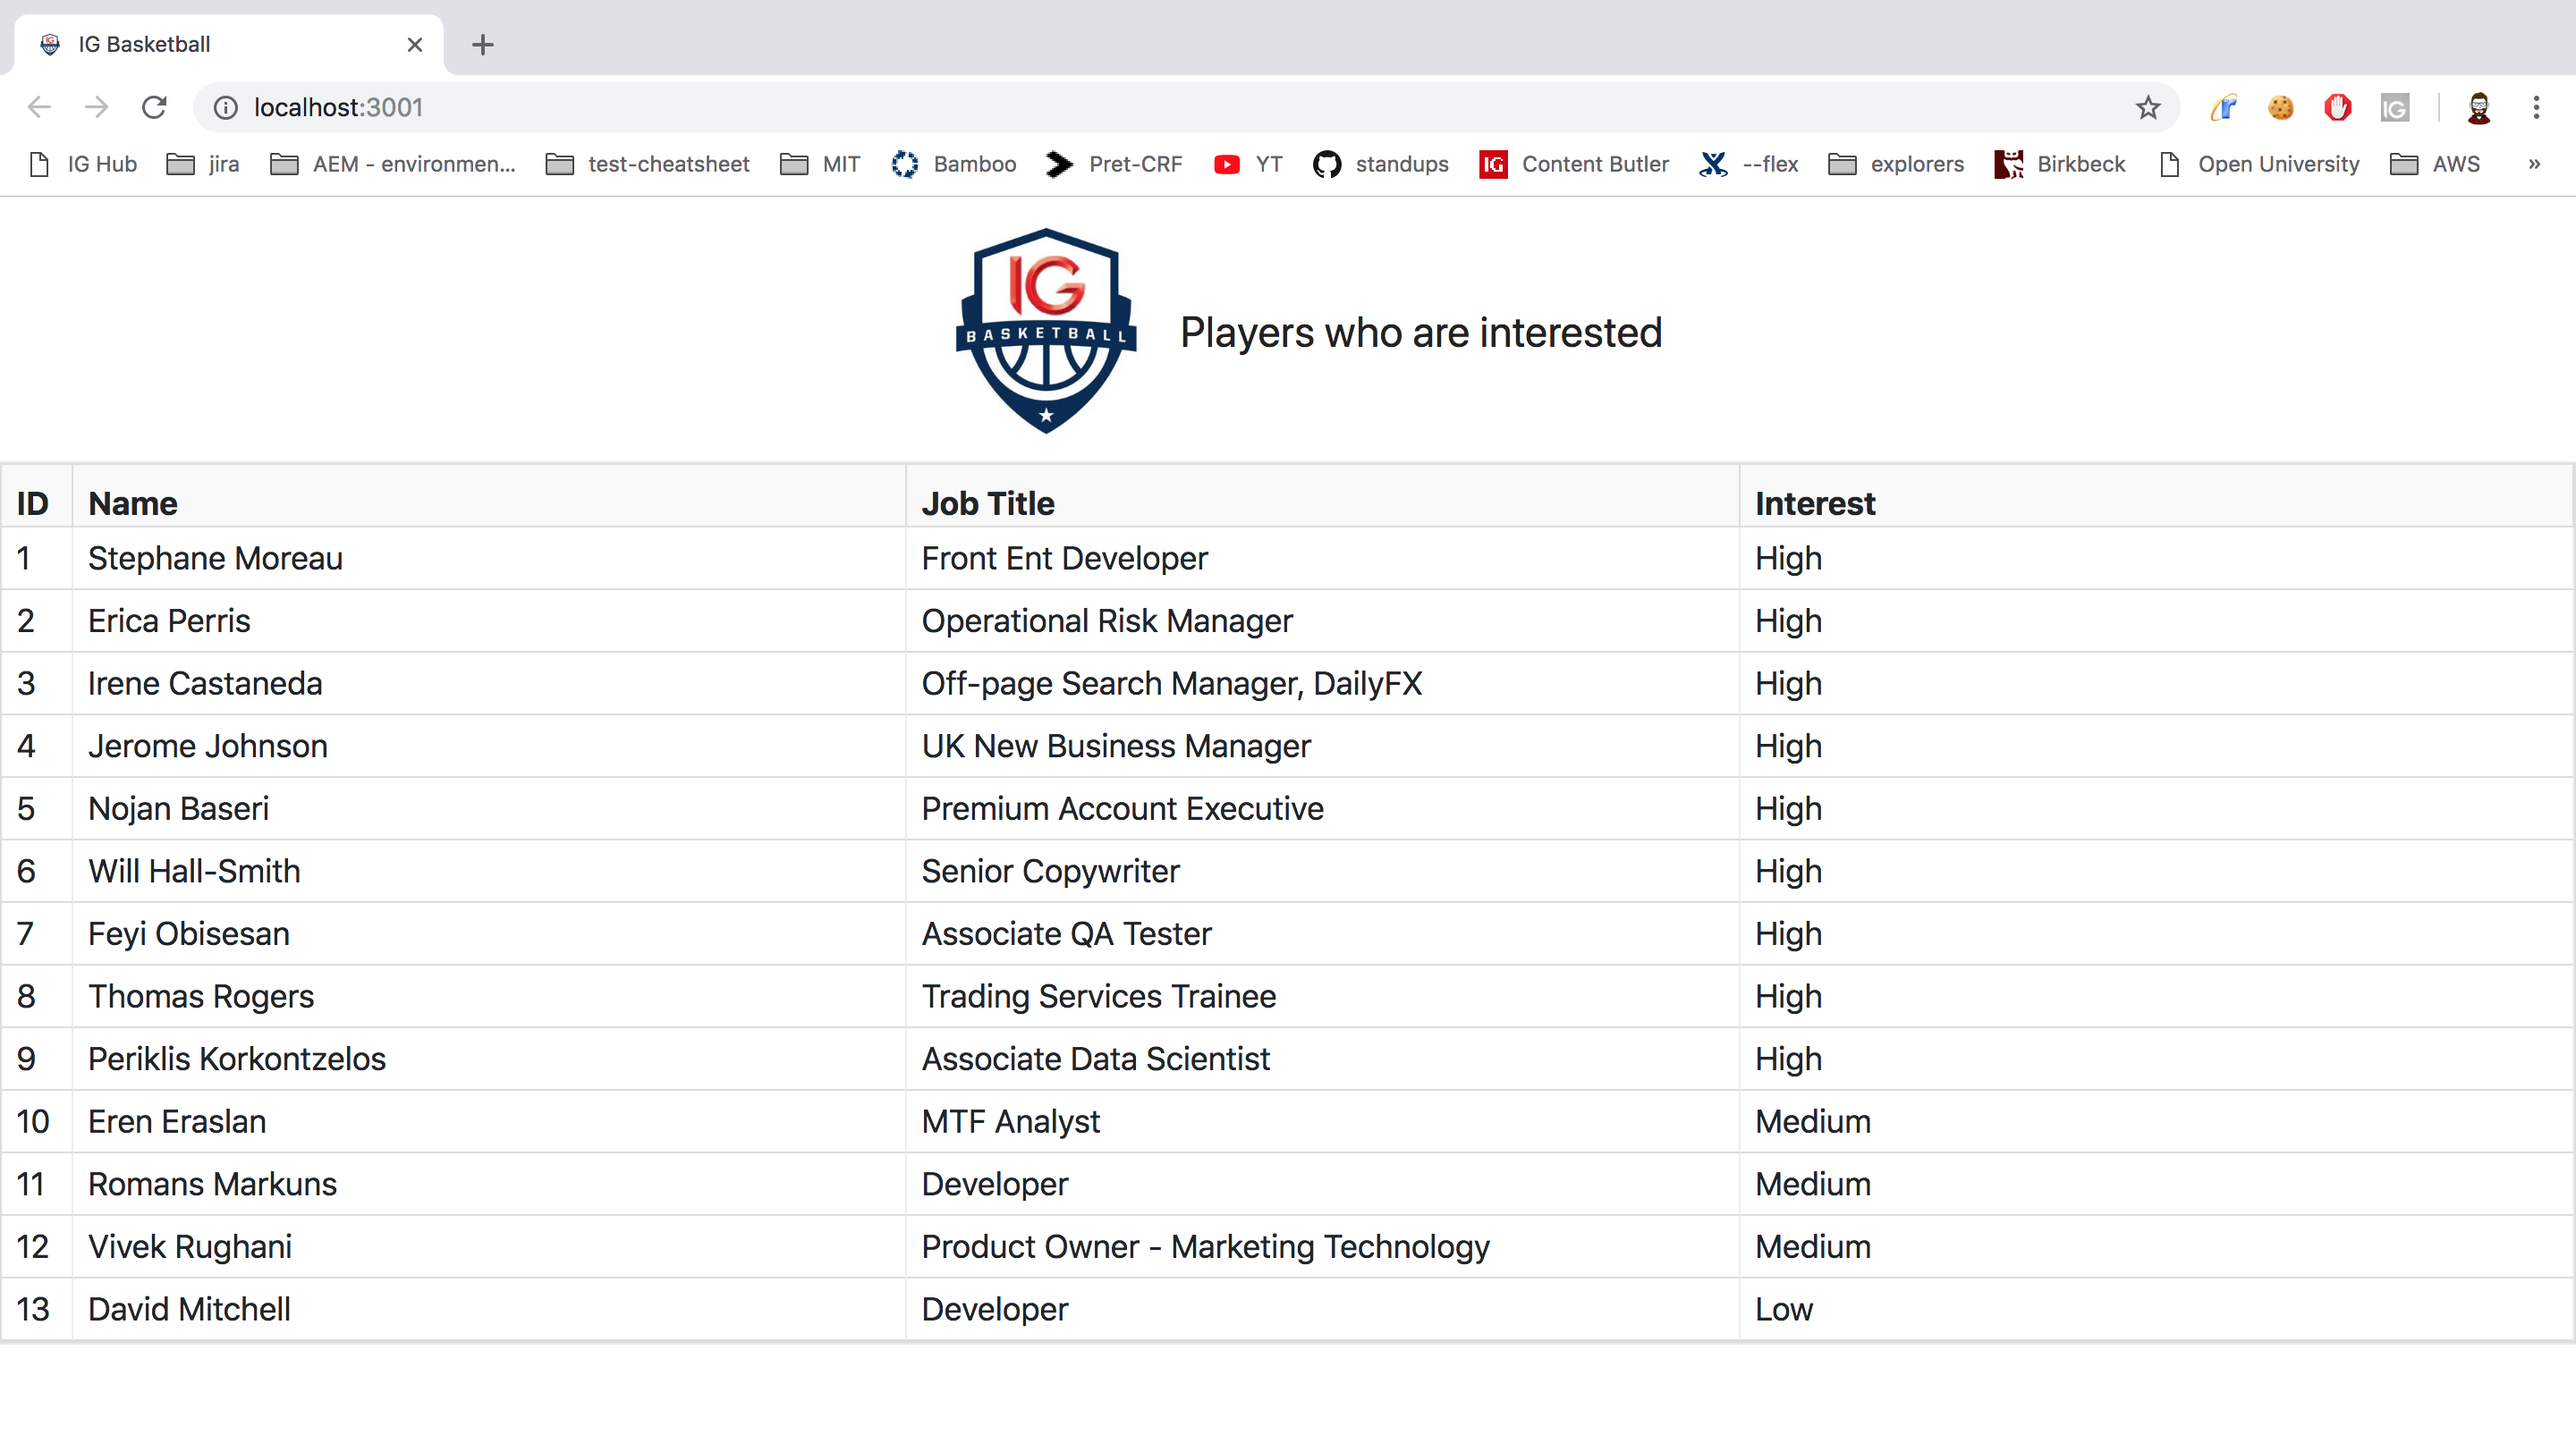
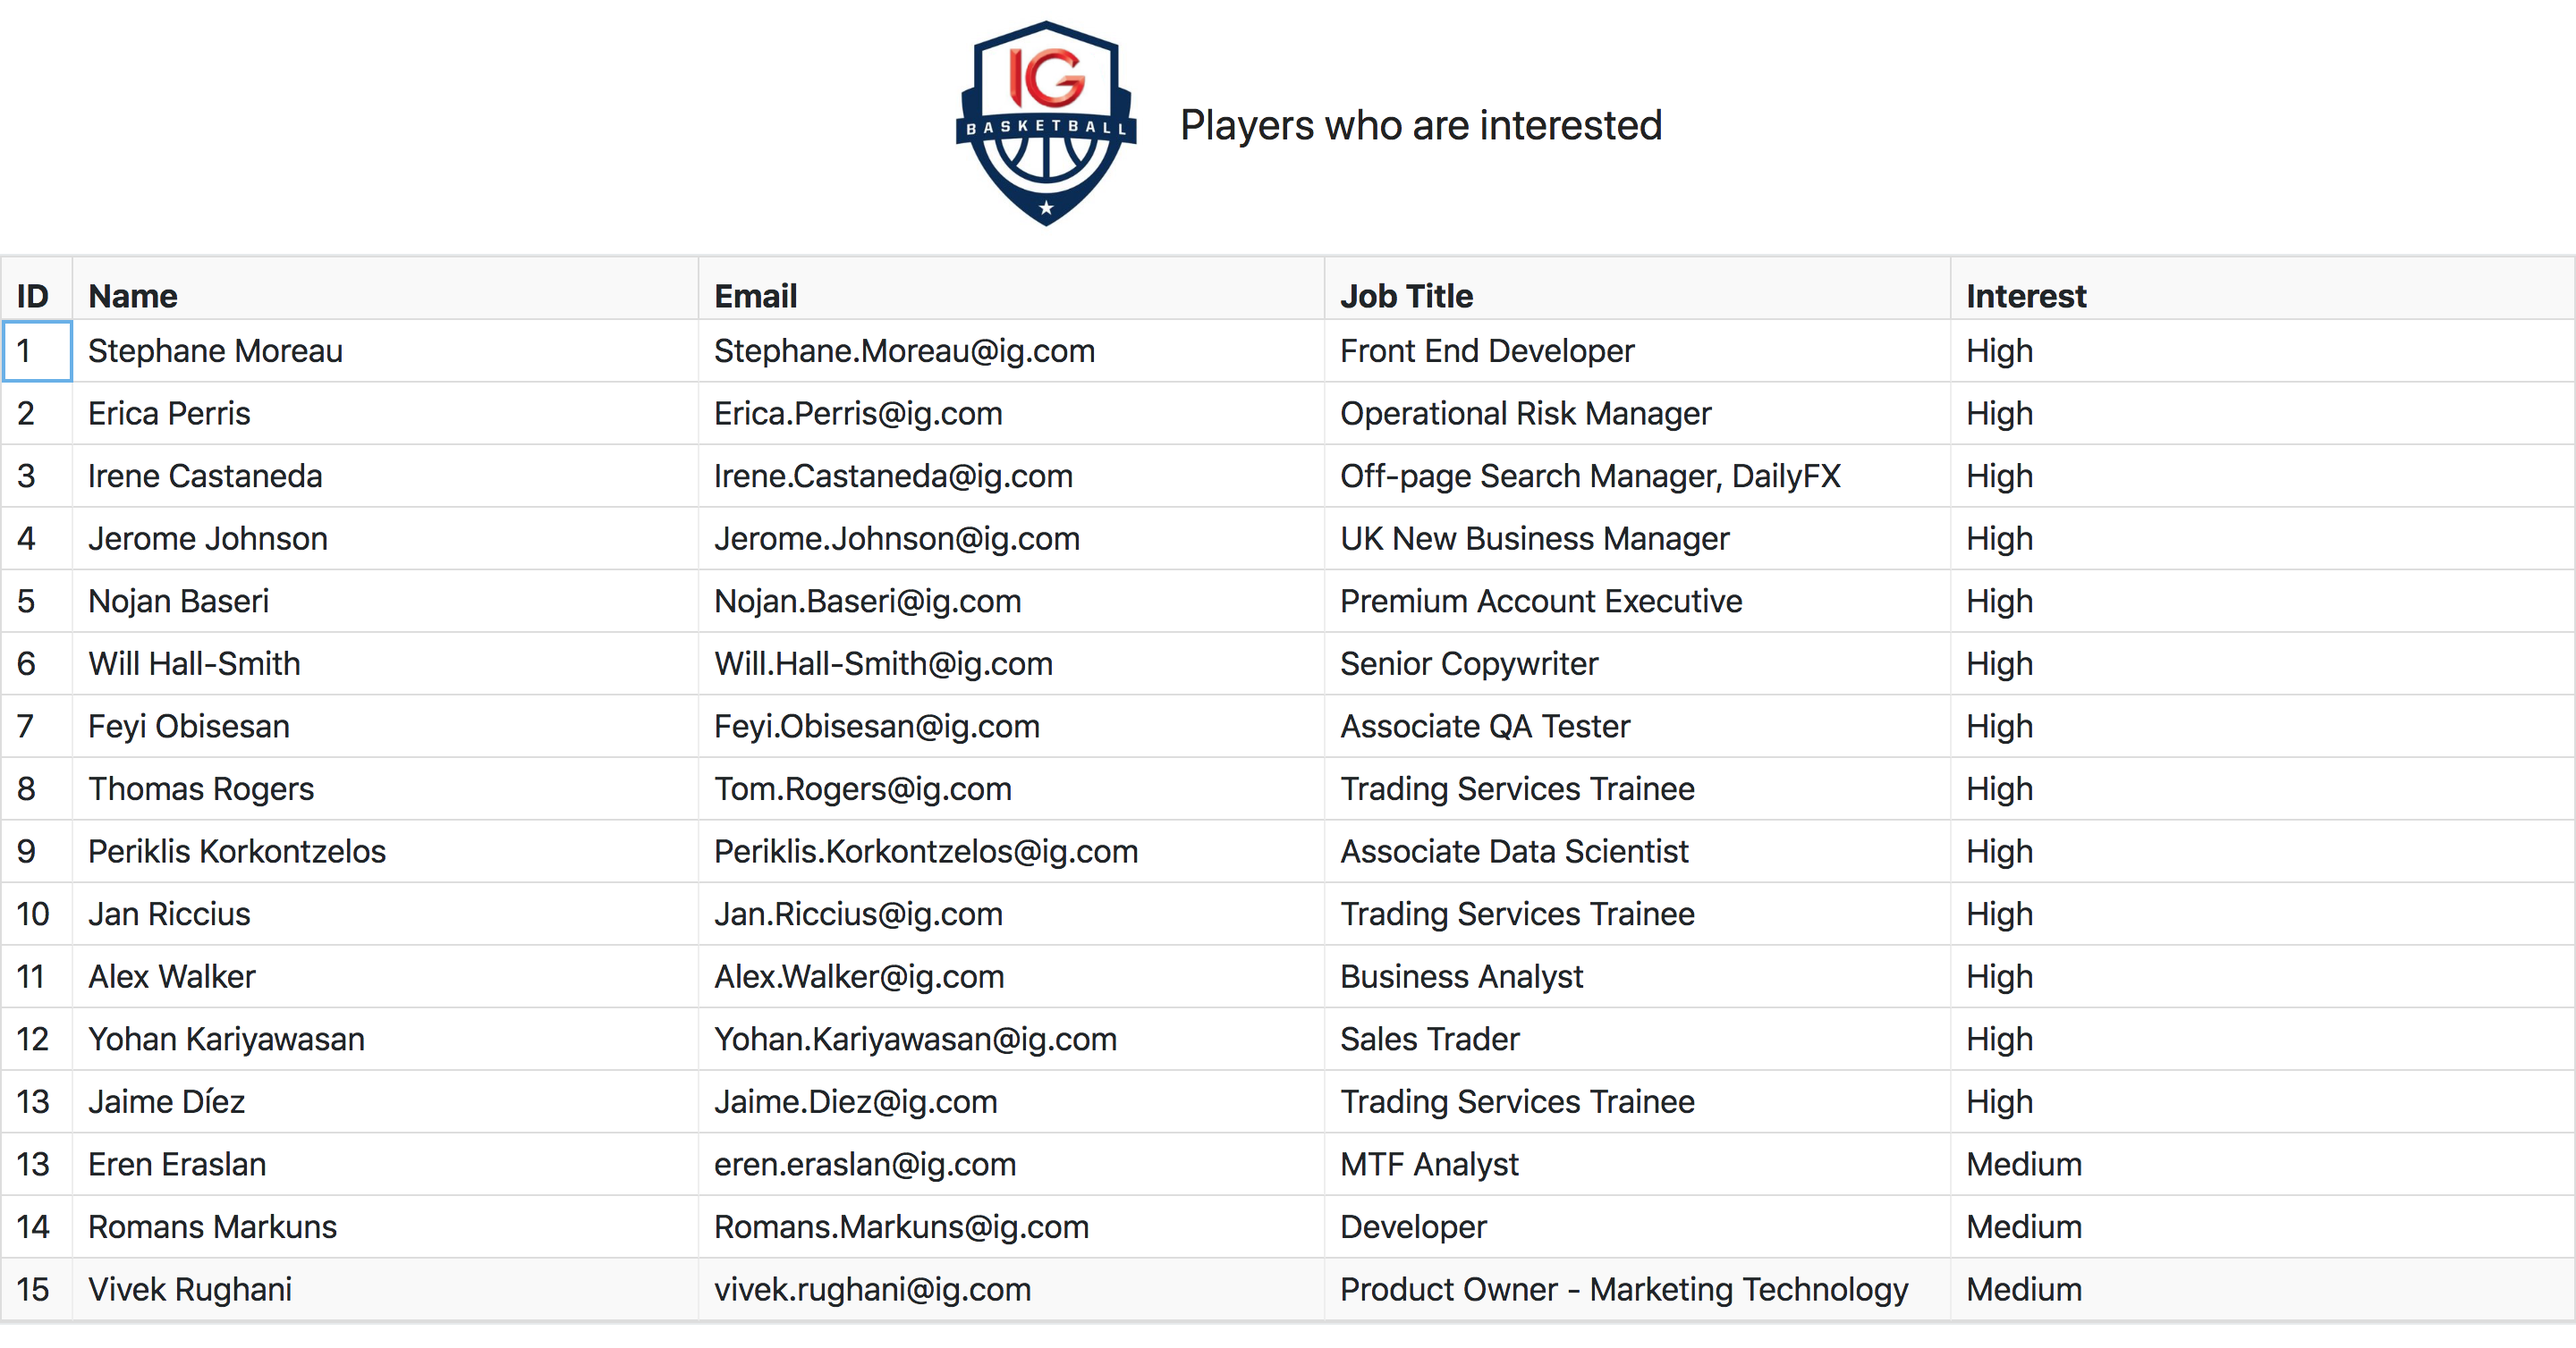
Fix typo for my JD and added another field on table

diff --git a/src/players.js b/src/players.js
@@ -1,20 +1,20 @@
 const players = [
-    {id: 1, name: 'Stephane Moreau', email: 'Stephane.Moreau@ig.com', title: 'Front Ent Developer', interest: 'High'},
-    {id: 2, name: 'Erica Perris', email: 'Erica.Perris@ig.com', title: 'Operational Risk Manager', interest: 'High'},
-    {id: 3, name: 'Irene Castaneda', email: 'Irene.Castaneda@ig.com', title: 'Off-page Search Manager, DailyFX', interest: 'High'},
-    {id: 4, name: 'Jerome Johnson', email: 'Jerome.Johnson@ig.com', title: 'UK New Business Manager', interest: 'High'},
-    {id: 5, name: 'Nojan Baseri', email: 'Nojan.Baseri@ig.com', title: 'Premium Account Executive', interest: 'High'},
-    {id: 6, name: 'Will Hall-Smith', email: 'Will.Hall-Smith@ig.com', title: 'Senior Copywriter', interest: 'High'},
-    {id: 7, name: 'Feyi Obisesan', email: 'Feyi.Obisesan@ig.com', title: 'Associate QA Tester', interest: 'High'},
-    {id: 8, name: 'Thomas Rogers', email: 'Tom.Rogers@ig.com', title: 'Trading Services Trainee', interest: 'High'},
-    {id: 9, name: 'Periklis Korkontzelos', email: 'Periklis.Korkontzelos@ig.com', title: 'Associate Data Scientist', interest: 'High'},
-    {id: 10, name: 'Jan Riccius', email: 'Jan.Riccius@ig.com', title: 'Trading Services Trainee', interest: 'High'},
-    {id: 11, name: 'Alex Walker', email: 'Alex.Walker@ig.com', title: 'Business Analyst', interest: 'High'},
-    {id: 12, name: 'Yohan Kariyawasan', email: 'Yohan.Kariyawasan@ig.com', title: 'Sales Trader', interest: 'High'},
-    {id: 13, name: 'Jaime Díez', email: 'Jaime.Diez@ig.com', title: 'Trading Services Trainee', interest: 'High'},
-    {id: 13, name: 'Eren Eraslan', email: 'eren.eraslan@ig.com', title: 'MTF Analyst', interest: 'Medium'},
-    {id: 14, name: 'Romans Markuns', email: 'Romans.Markuns@ig.com', title: 'Developer', interest: 'Medium'},
-    {id: 15, name: 'Vivek Rughani', email: 'vivek.rughani@ig.com', title: 'Product Owner - Marketing Technology', interest: 'Medium'}
+    {id: 1, name: 'Stephane Moreau', email: 'Stephane.Moreau@ig.com', title: 'Front End Developer', interest: 'High', givenDate: 'yes'},
+    {id: 2, name: 'Erica Perris', email: 'Erica.Perris@ig.com', title: 'Operational Risk Manager', interest: 'High', givenDate: 'no'},
+    {id: 3, name: 'Irene Castaneda', email: 'Irene.Castaneda@ig.com', title: 'Off-page Search Manager, DailyFX', interest: 'High', givenDate: 'yes'},
+    {id: 4, name: 'Jerome Johnson', email: 'Jerome.Johnson@ig.com', title: 'UK New Business Manager', interest: 'High', givenDate: 'no'},
+    {id: 5, name: 'Nojan Baseri', email: 'Nojan.Baseri@ig.com', title: 'Premium Account Executive', interest: 'High', givenDate: 'yes'},
+    {id: 6, name: 'Will Hall-Smith', email: 'Will.Hall-Smith@ig.com', title: 'Senior Copywriter', interest: 'High', givenDate: 'no'},
+    {id: 7, name: 'Feyi Obisesan', email: 'Feyi.Obisesan@ig.com', title: 'Associate QA Tester', interest: 'High', givenDate: 'no'},
+    {id: 8, name: 'Thomas Rogers', email: 'Tom.Rogers@ig.com', title: 'Trading Services Trainee', interest: 'High', givenDate: 'yes'},
+    {id: 9, name: 'Periklis Korkontzelos', email: 'Periklis.Korkontzelos@ig.com', title: 'Associate Data Scientist', interest: 'High', givenDate: 'yes'},
+    {id: 10, name: 'Jan Riccius', email: 'Jan.Riccius@ig.com', title: 'Trading Services Trainee', interest: 'High', givenDate: 'no'},
+    {id: 11, name: 'Alex Walker', email: 'Alex.Walker@ig.com', title: 'Business Analyst', interest: 'High', givenDate: 'no'},
+    {id: 12, name: 'Yohan Kariyawasan', email: 'Yohan.Kariyawasan@ig.com', title: 'Sales Trader', interest: 'High', givenDate: 'no'},
+    {id: 13, name: 'Jaime Díez', email: 'Jaime.Diez@ig.com', title: 'Trading Services Trainee', interest: 'High', givenDate: 'yes'},
+    {id: 13, name: 'Eren Eraslan', email: 'eren.eraslan@ig.com', title: 'MTF Analyst', interest: 'Medium', givenDate: 'no'},
+    {id: 14, name: 'Romans Markuns', email: 'Romans.Markuns@ig.com', title: 'Developer', interest: 'Medium', givenDate: 'no'},
+    {id: 15, name: 'Vivek Rughani', email: 'vivek.rughani@ig.com', title: 'Product Owner - Marketing Technology', interest: 'Medium', givenDate: 'no'}
 ];
 
 const emails = players.map((player) => (player.email));

diff --git a/src/Table.js b/src/Table.js
@@ -8,7 +8,8 @@ const columns = [
     {key: 'name', name: 'Name', editable: true},
     {key: 'email', name: 'Email', editable: true},
     {key: 'title', name: 'Job Title', editable: true},
-    {key: 'interest', name: 'Interest', editable: true}
+    {key: 'interest', name: 'Interest', editable: true},
+    {key: 'givenDate', name: 'Given Available Date', editable: true},
 ].map(
     column => ({
         ...column,
